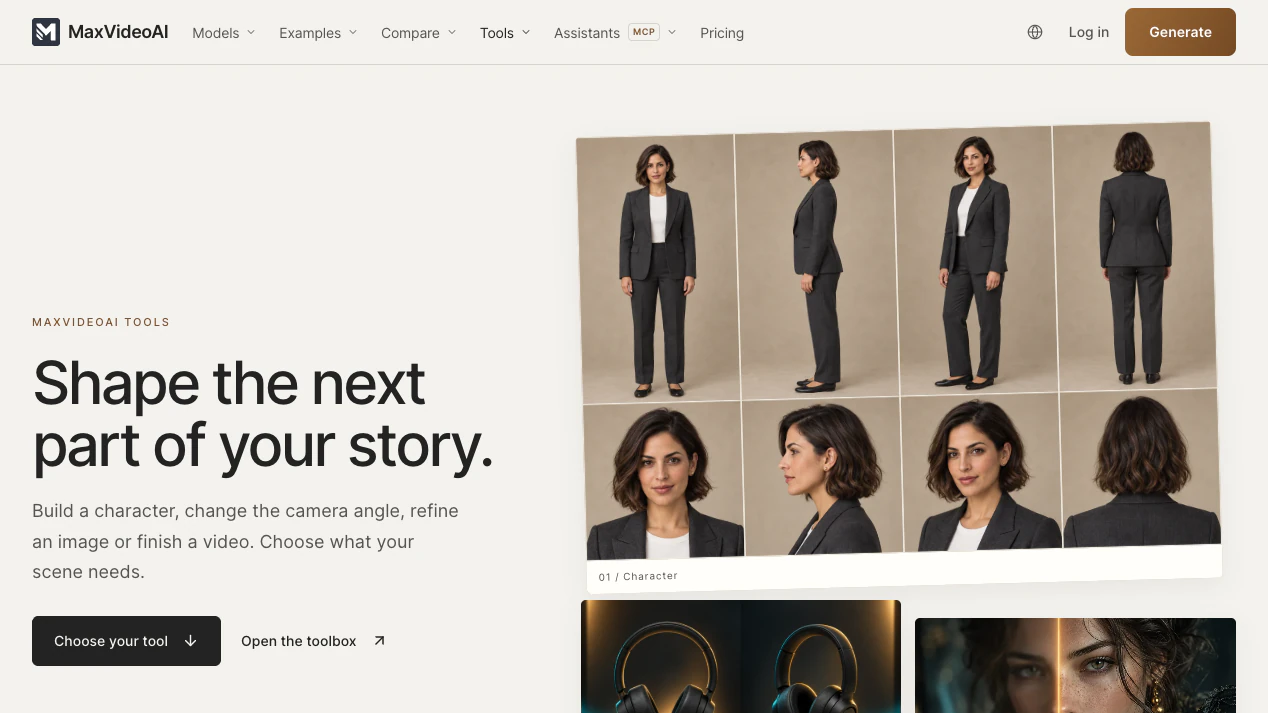
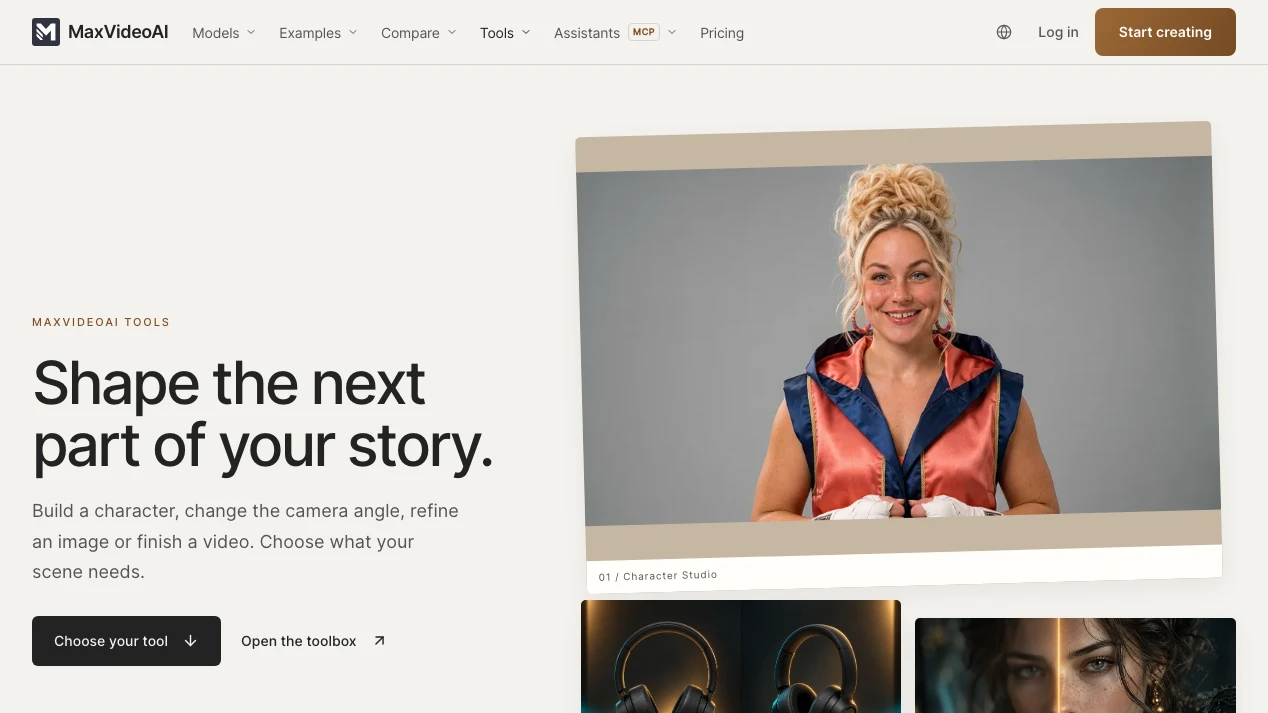
docs: revalidate public proof for November production release

Changed region(s): [[0.4306, 0.1543, 0.9842, 0.8022], [0.7689, 0.0, 0.9535, 0.0926]]

diff --git a/README.md b/README.md
@@ -16,15 +16,15 @@ MaxVideoAI is a multi-model AI video production platform for turning a brief int
 
 MaxVideoAI brings model choice, prompts, references, settings, live pricing, previews, results, and next-shot context into one production workspace. That workspace is the main product; the GitHub plugin extends the same production path to Claude, ChatGPT, Codex, OpenClaw, and a bounded self-hosted n8n workflow later in this page.
 
-![Public MaxVideoAI home page with a colorful MiniMax H3 Max film preview and pay-as-you-go creation actions](plugins/maxvideoai/assets/screenshots/maxvideoai-workspace-live.webp)
+![Public MaxVideoAI home page with a FLUX 3 Max film preview and pay-as-you-go creation actions](plugins/maxvideoai/assets/screenshots/maxvideoai-workspace-live.webp)
 
-*The current public production experience, captured from production on September 16, 2026.*
+*Public homepage captured from production on November 15, 2026.*
 
 ## What can you make with MaxVideoAI?
 
 Use MaxVideoAI to develop a single shot, animate an image, build a multi-shot sequence, create supporting images or audio, and continue from earlier work. The workspace keeps model selection, prompts, references, settings, price, previews, results, and the Library in one production path instead of scattering them across provider tabs.
 
-![MaxVideoAI examples gallery with brand filters and four opening video cards for Wan, Seedance and FLUX](plugins/maxvideoai/assets/screenshots/maxvideoai-examples-gallery-live.webp)
+![MaxVideoAI examples gallery with brand filters and four opening video cards for Wan, Seedance and Kling](plugins/maxvideoai/assets/screenshots/maxvideoai-examples-gallery-live.webp)
 
 Every public example opens into its prompt, settings, model, duration, and current price estimate. Browse the [AI video examples gallery](https://maxvideoai.com/examples), then recreate a useful starting point in your own workspace.
 
@@ -39,11 +39,11 @@ Every public example opens into its prompt, settings, model, duration, and curre
 
 MaxVideoAI compares AI video engines by workflow, supported inputs, duration, resolution, audio, pricing, strengths, and a documented editorial score. The side-by-side hub is designed for an actual production decision: choose two engines, inspect the trade-offs, open the detailed matchup, and move to the model that fits the shot.
 
-![MaxVideoAI comparison page showing MiniMax H3 and Seedance 2.5 scores, strengths, and colorful video examples](plugins/maxvideoai/assets/screenshots/maxvideoai-engine-scoreboard-live.webp)
+![MaxVideoAI comparison page showing MiniMax H3 and Seedance 2.5 editorial scores, higher-rated areas and independent video examples](plugins/maxvideoai/assets/screenshots/maxvideoai-engine-scoreboard-live.webp)
 
 The broader [model directory](https://maxvideoai.com/models) adds recommended starting points and routes for video, image, audio, and preparation work.
 
-![MaxVideoAI model directory with colorful MiniMax and Kling examples beside current model discovery actions](plugins/maxvideoai/assets/screenshots/maxvideoai-model-directory-live.webp)
+![September 2026 MaxVideoAI model-directory hero with MiniMax and Kling examples beside model discovery actions](plugins/maxvideoai/assets/screenshots/maxvideoai-model-directory-live.webp)
 
 Model families such as Sora, Veo, Kling, Seedance, LTX, MiniMax, Wan, Happy Horse, Gemini Omni, and Pika are examples rather than a frozen catalogue. Use the live directory for current availability and pricing.
 
@@ -51,7 +51,7 @@ Model families such as Sora, Veo, Kling, Seedance, LTX, MiniMax, Wan, Happy Hors
 
 MaxVideoAI is pay as you go. The pricing surface compares common scenarios across video, image, audio, and production tools, while the workspace shows the live price for the selected request before launch. In the assistant workflow, a concrete request becomes an exact quote and one explicit approval authorizes one paid attempt.
 
-![MaxVideoAI pricing page with three current video starting points and navigation across video, image, audio, and tools](plugins/maxvideoai/assets/screenshots/maxvideoai-pricing-comparison-live.webp)
+![MaxVideoAI pricing captured on November 15, 2026 with three video starting points and video, image, audio and tools navigation](plugins/maxvideoai/assets/screenshots/maxvideoai-pricing-comparison-live.webp)
 
 1. Choose the model, mode, duration, resolution, and supported extras.
 2. Compare the current [AI video pricing](https://maxvideoai.com/pricing).
@@ -62,7 +62,7 @@ MaxVideoAI is pay as you go. The pricing surface compares common scenarios acros
 
 The public [production toolbox](https://maxvideoai.com/tools) brings repeatable preparation and finishing work into the same product path. Build a consistent character sheet, explore camera angles, refine or remove an image background, and finish a video without pretending that every useful step needs a new generation model.
 
-![MaxVideoAI tools page showing a colorful character sheet, camera-angle work, image refinement, and video finishing options](plugins/maxvideoai/assets/screenshots/maxvideoai-tools-workflow-live.webp)
+![MaxVideoAI tools page showing a Character Studio portrait and camera-angle and upscale presentation examples](plugins/maxvideoai/assets/screenshots/maxvideoai-tools-workflow-live.webp)
 
 Tool availability and price still come from the live product. The exact input, output, and billing boundary is shown before a tool runs.
 
@@ -70,7 +70,9 @@ Tool availability and price still come from the live product. The exact input, o
 
 Supported workflows can use image, video, or audio references for composition, subject, motion, timing, or sound direction. The selected model and mode determine the accepted reference roles and limits. Finished results and reusable assets remain in the connected MaxVideoAI Library, ready for the next shot or another production route.
 
-![Public MaxVideoAI MCP page showing a finished colorful video in Claude with confirmation that it was saved to the connected Library](plugins/maxvideoai/assets/screenshots/maxvideoai-library-continuity-production.jpg)
+![September 2026 public-page capture of a controlled Claude Desktop staging result saved to the connected MaxVideoAI Library](plugins/maxvideoai/assets/screenshots/maxvideoai-library-continuity-production.jpg)
+
+*Controlled Claude Desktop staging test from August 26, 2026; public-page capture from September 16, revalidated November 15. This dated demonstration does not certify current host execution or pricing.*
 
 [Open the Library](https://maxvideoai.com/app/library) to browse saved media and continue where the production stopped.
 

diff --git a/plugins/maxvideoai/README.md b/plugins/maxvideoai/README.md
@@ -25,7 +25,7 @@ Start a new Codex task, then ask `$maxvideoai:plan` to compare a production rout
 
 The assistant owns the creative conversation; MaxVideoAI supplies current product truth and the controlled execution path. It can read live model details, compare compatible options, calculate complete project budgets, select account-owned media, validate concrete settings, return an exact quote, submit one approved attempt, follow the accepted job, and present the finished result.
 
-![Public MaxVideoAI home page with a colorful MiniMax H3 Max film preview and pay-as-you-go creation actions](assets/screenshots/maxvideoai-workspace-live.webp)
+![Public MaxVideoAI home page captured in November 2026 with a FLUX 3 Max film preview and pay-as-you-go creation actions](assets/screenshots/maxvideoai-workspace-live.webp)
 
 The same connected account and Library are used on the website and through the plugin. There is no separate plugin subscription; approved generations use existing MaxVideoAI credits at current pay-as-you-go prices.
 
@@ -58,7 +58,7 @@ Connect → OAuth on first use → plan without spending → prepare quote → a
 
 Start from a brief, a supported private reference, or a public example. The plugin can help turn that material into a shot plan and a model-aware request, while the MaxVideoAI gallery gives you concrete prompts, settings, durations, and current price estimates to inspect before building your own version.
 
-![MaxVideoAI examples gallery with brand filters and four opening video cards for Wan, Seedance and FLUX](assets/screenshots/maxvideoai-examples-gallery-live.webp)
+![MaxVideoAI examples gallery with brand filters and four opening video cards for Wan, Seedance and Kling](assets/screenshots/maxvideoai-examples-gallery-live.webp)
 
 [Explore AI video examples](https://maxvideoai.com/examples) or copy one of the [four practical agent workflows](examples/README.md).
 
@@ -66,7 +66,7 @@ Start from a brief, a supported private reference, or a public example. The plug
 
 Use `$maxvideoai:plan` in Codex or `/maxvideoai:plan` in Claude Code. Planning reads current model facts and builds comparable, named production routes without authorizing generation. Ask for one consistent-model route, a deliberate model mix, a quality-focused plan, or a credible lower-cost alternative using the same shot assumptions.
 
-![MaxVideoAI comparison page showing MiniMax H3 and Seedance 2.5 scores, strengths, and colorful video examples](assets/screenshots/maxvideoai-engine-scoreboard-live.webp)
+![MaxVideoAI comparison page showing MiniMax H3 and Seedance 2.5 editorial scores, higher-rated areas and independent video examples](assets/screenshots/maxvideoai-engine-scoreboard-live.webp)
 
 The [engine comparison hub](https://maxvideoai.com/ai-video-engines) and [model directory](https://maxvideoai.com/models) expose the current decision surface. A recommendation is a capability match for the brief, not a guarantee of provider availability or a paid quote.
 
@@ -74,7 +74,7 @@ The [engine comparison hub](https://maxvideoai.com/ai-video-engines) and [model 
 
 A project budget is useful while you are choosing a direction. When the model, prompt, settings, and required references are concrete, `$maxvideoai:generate` or `/maxvideoai:generate` prepares the exact price for that request. Nothing is submitted as paid work until you explicitly approve that quote, and the approval covers one attempt.
 
-![MaxVideoAI pricing page with three current video starting points and navigation across video, image, audio, and tools](assets/screenshots/maxvideoai-pricing-comparison-live.webp)
+![MaxVideoAI pricing captured on November 15, 2026 with three video starting points and video, image, audio and tools navigation](assets/screenshots/maxvideoai-pricing-comparison-live.webp)
 
 1. **Plan:** compare current model options and complete project budgets without spending credits.
 2. **Prepare:** validate the selected request and supported private references.
@@ -86,7 +86,7 @@ A project budget is useful while you are choosing a direction. When the model, p
 
 The public [MaxVideoAI toolbox](https://maxvideoai.com/tools) covers repeatable work around generation: character sheets, camera-angle exploration, image refinement, background removal, and video finishing. It keeps the next production step visible without implying that every tool is part of this plugin package or available through every MCP host.
 
-![MaxVideoAI tools page showing a colorful character sheet, camera-angle work, image refinement, and video finishing options](assets/screenshots/maxvideoai-tools-workflow-live.webp)
+![MaxVideoAI tools page showing a Character Studio portrait and camera-angle and upscale presentation examples](assets/screenshots/maxvideoai-tools-workflow-live.webp)
 
 Use the live tool page for current inputs and prices. The remote MCP exposes only the capabilities in its current tool contract.
 
@@ -96,7 +96,9 @@ The current live MCP surface covers video and image planning, quoting, generatio
 
 Compatible ChatGPT or Claude surfaces can import authorized attachments and generated results as private MaxVideoAI assets without a public URL or Computer Use. Codex and Claude Code use the packaged local helper when a host cannot expose a temporary file handle directly. The helper reads local bytes itself; it does not publish the file or pass a raw local path to the MCP server.
 
-![Public MaxVideoAI MCP page showing a finished colorful video in Claude with confirmation that it was saved to the connected Library](assets/screenshots/maxvideoai-library-continuity-production.jpg)
+![September 2026 public-page capture of a controlled Claude Desktop staging result saved to the connected MaxVideoAI Library](assets/screenshots/maxvideoai-library-continuity-production.jpg)
+
+*Controlled Claude Desktop staging test from August 26, 2026; public-page capture from September 16, revalidated November 15. This dated demonstration does not certify current host execution or pricing.*
 
 Private references and finished generations remain in the connected MaxVideoAI Library. If a response is interrupted after submission, recover the accepted job or recent generation before preparing another paid attempt. Read [privacy and permissions](docs/privacy-and-permissions.md) and [reference input handling](skills/generate/references/reference-inputs.md) for the complete boundary.
 

diff --git a/docs/marketing/github-proof-review-2026-11-15.md b/docs/marketing/github-proof-review-2026-11-15.md
@@ -1,0 +1,68 @@
+# Public proof review — 15 November 2026
+
+Reviewed against production revision `3d49f113fbebb2471395fc42e4a1fcaffec2e616`
+at 18:40 UTC during the authorized tool-delivery release. The release owner's
+preceding `pnpm deployment:check` confirmed both public domains on this Git-backed
+revision (`dpl_D9Ao8uAmhRCb4n9h8Xy5wC9SawRy`). Reviewer: Codex. The existing
+MaxVideoAI owner approvals remain attributed as recorded; this review does not
+claim a new human approval, native-host certification or paid generation.
+
+The 30-day guard correctly rejected fifteen expired publishable proof records.
+All fifteen retained images were opened and visually inspected individually.
+Their stated claims were then compared with actual rendered public pages,
+including DOM text, images and the relevant visible sections. All seven routes
+returned HTTP 200. Neither the 30-day review limit nor the 90-day capture limit
+was changed.
+
+| Public source | Result and bounded decision |
+| --- | --- |
+| `/` | Pay-as-you-go, Create a video and Explore examples remain. The default film is now FLUX 3 Max, so `maxvideoai-workspace-live` was recaptured. The separate September 16 MiniMax JPG remains an explicitly dated composite source, without claiming the current default model or navigation. |
+| `/examples` | Four opening cards now show Wan 3 Prime, Seedance 2.0 Fast and two Kling 4.0 examples, with prompt excerpts. Recaptured `maxvideoai-examples-gallery-live`; removed the obsolete FLUX opening-card description from both READMEs. |
+| `/ai-video-engines/minimax-h3-vs-seedance-2-5` | The 8.5/9.1 scores remain, now explicitly labeled editorial scores. Higher-rated-area wording and the independent example selection changed. Recaptured `maxvideoai-engine-scoreboard-live`, retaining the visible different-prompts/settings qualification. These are not identical-prompt benchmark results. |
+| `/models` | Browse models, Compare engines, price-before-render, pay-as-you-go and specification cues, plus the MiniMax/Kling artwork, still match the retained hero. Kept `maxvideoai-model-directory-live` pixels and narrowed its claim/alt to the September 16 capture; this does not freeze the current catalogue. |
+| `/pricing` | The first scenario is now Dreamina Seedance 2.0 Mini at $0.39; the two Kling 3 Standard scenarios remain $1.10/$1.64. The summary shows 31 current-generation engines, and 4K entries now expose duration/audio qualifiers. Recaptured `maxvideoai-pricing-comparison-live`. These are dated preset display prices, not a quote for a new request. |
+| `/tools` | The featured character-sheet artwork has become a Character Studio portrait. Camera-angle/upscale examples and tool entry actions remain. Recaptured `maxvideoai-tools-workflow-live` and updated its direct descriptions; presentation artwork does not certify an actual tool run. |
+| `/mcp` | Five public paths and four in-preparation clients remain. Claude and ChatGPT eligibility/test labels have changed, so `maxvideoai-assistant-workflow-live` was recaptured. These labels describe public-page copy and are not independent host requalification. The page still displays the same controlled Claude Desktop staging result, now prominently dated August 26, 2026, with an explicit historical-$0.95 disclaimer, saved-to-Library label and first-party action. The September 16 `maxvideoai-library-continuity-production` JPG remains a dated view of that specific demonstration. |
+
+Six standalone screenshots were genuinely recaptured at 18:38:55–18:39:19 UTC
+using Chromium `147.0.7727.15`, viewport 1268×713, device scale 1, reduced motion
+and rejected optional cookies. Captures are direct rendered-page screenshots
+encoded as WebP at quality 90 without resizing, retouching, annotation or interface
+synthesis. Their individual capture timestamps, production source revision and
+measured SHA-256 values were updated in the manifest.
+
+Nine other publishable images retain their original September 16 capture dates,
+source revision `5423599b472ae6d6e31beb3e8a5c59e23d3a1a83` and byte hashes:
+
+- `maxvideoai-workspace-production`: dated MiniMax home source; current home
+  proposition and primary actions were revalidated, not the old default film.
+- `maxvideoai-library-continuity-production`: dated public view of the explicitly
+  historical Claude staging result still disclosed on `/mcp`.
+- `maxvideoai-model-directory-live`: matching directory hero and bounded cues.
+- `readme-proof-hero`, `brief-to-video-workflow`, `model-choice-and-budget`,
+  `library-continuity`, `github-social-preview` and `directory-thumbnail`:
+  individually inspected composites of the unchanged dated home/Claude JPGs.
+  Their source-proof IDs, composition provenance and decorative pixels remain
+  unchanged. Claims and alt text now state the dated scope. The composites do
+  not certify the current interface, a current quote, approval or execution in
+  every named client. The public five-client paths remain as listed on `/mcp`.
+
+Only these fifteen previously expired publishable records receive the new
+`lastReviewedAt` and `lastReviewedRevision`. Fresh proof records are untouched.
+The six archival native-host records remain `reference_only`, with their original
+null provenance. The cancelled `release-0-3-4` historical card is also untouched.
+No application route, pricing policy, model configuration, host status or package
+version was changed. README edits only correct directly associated image
+descriptions and dates.
+
+Verification:
+
+```sh
+node scripts/check-github-assets.mjs --release
+TSX_TSCONFIG_PATH=frontend/tsconfig.json node --import tsx --test tests/github-assets.test.ts
+git diff --check
+```
+
+The release guard passed, all 14 focused tests passed, and `git diff --check`
+passed. The equivalent direct Node loader was used because the sandbox refused
+the `tsx` CLI's IPC pipe; no validation assertion was skipped or changed.
